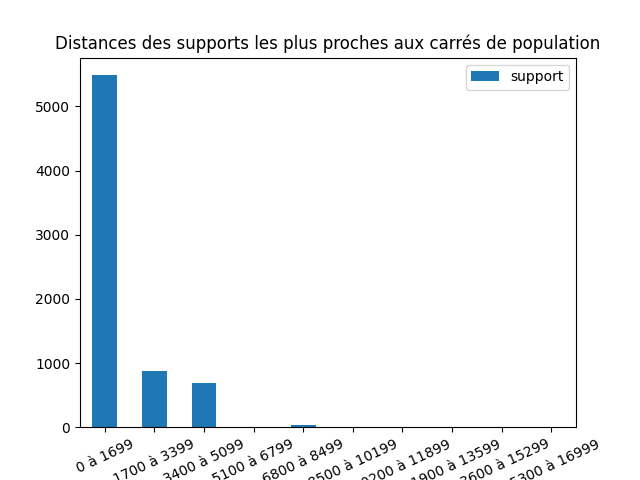
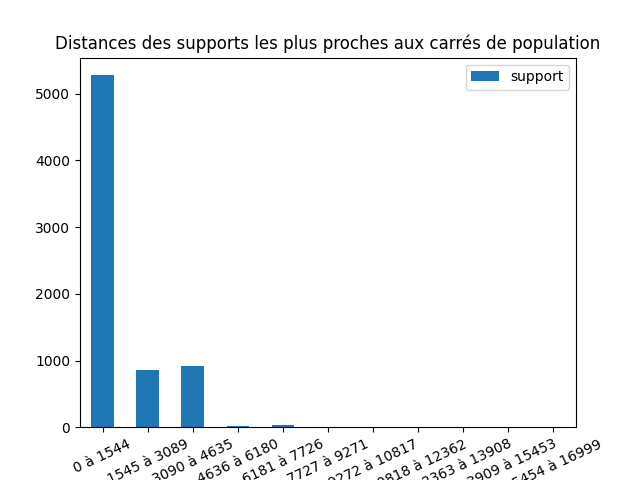
arguments plot_chart()

diff --git a/script/diagrammes/bar.py b/script/diagrammes/bar.py
@@ -1,3 +1,4 @@
+import csv
 import pandas as pd
 import matplotlib.pyplot as plot
 import numpy as np
@@ -5,41 +6,51 @@ import math
 import time
 from progress.bar import IncrementalBar
 
+#Path
 cAll = 'data/carresALL[essai]avecSup.csv'
 cStats = 'data/carres-stats-avec-nb-antennes'
-with open(cAll) as carre_file:
-    cAll = pd.read_csv(carre_file, sep=';', quotechar="'")
-    bar = IncrementalBar('Chargement', max = len(cAll))
-with open(cStats) as carre_file:
-    cStats = pd.read_csv(carre_file, sep='\s+')
-    header = list(cStats.columns.values)
+cEmetteur = 'data/EMETTEUR.csv'
 
-def plot_chart(detail=10, stat='poptot', type='LTE'):
+#File read
+with open(cAll) as carre_file:
+    cAll_df = pd.read_csv(carre_file, sep=';', quotechar="'")
+with open(cStats) as carre_file:
+    cStats_df = pd.read_csv(carre_file, sep='\s+')
+    header = list(cStats_df.columns.values)
+with open(cEmetteur) as emetteur_file:
+    cEmetteur_df = pd.read_csv(emetteur_file, sep=';', quotechar="'")
+
+#Function
+def plot_chart(detail=10, stat='poptot', threshold=0, type='LTE'):
     """
-    in: detail=nombre de barres, stat=statistique INSEE à évaluer, type=technologie de l'antenne
+    in: detail=échantillon (nombre de barres), stat=statistique INSEE à évaluer, threshold=valeur de stat minimum pour être retenue (si négative, maximum), type=technologie de l'antenne
     out: graphique panda associé
     """
+    bar = IncrementalBar('Génération du diagramme', max=len(cAll_df))
     data = []
     stat_index = header.index(stat)
     interval = 17000/detail # 17km = max search dist
     
     for i in range (detail):
         data.append([str(math.floor(i*interval))+' à '+str(math.floor((i+1)*interval-1)), 0])
-    for index, row in cAll.iterrows():
+    for index, row in cAll_df.iterrows():
         bar.next()
+        carre = cStats_df[cStats_df['LAEA']==row['IDcrs']]
         for i in range (1,4): # 4 points du carré
             dist = int(row['SupProchePt'+str(i)].split('-')[1]) # distance de l'antenne au point
-            pop = cStats.loc[cStats['LAEA']==row['IDcrs']].values[0][stat_index] / 4 #values[0][2] => poptot
-            data[math.floor(dist//interval)][1]+=pop
+            pop = carre.values[0][2] / 4 #values[0][2] => poptot
+            if (carre.values[0][stat_index] >= threshold):
+                data[math.floor(dist//interval)][1]+=pop
     bar.finish()
-    df = pd.DataFrame(data,columns=['pop','support'],dtype=float)
+    df = pd.DataFrame(data, columns=['pop','support'], dtype=float)
     print(df)
     df.plot.bar(x="pop", y="support", rot=25, title="Distances des supports les plus proches aux carrés de population")
-    plot.savefig('statpop.png')
-    #plot.show()
 
-plot_chart()
-
-
+#Main
+start_time = time.time()
+plot_chart(detail=11)
+print("Temps d'exécution: %s secondes" % (time.time() - start_time))
+plot.savefig('statpop.png')
+plot.show()
 
 # distribution: https://pandas.pydata.org/pandas-docs/stable/reference/api/pandas.DataFrame.plot.hist.html
